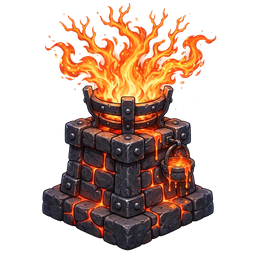
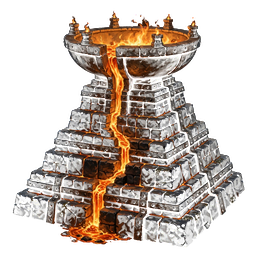
Fire: per-state muzzles + structure-first art for 7 effect-dominated states

diff --git a/tests/browser/fire-muzzles.spec.js b/tests/browser/fire-muzzles.spec.js
@@ -1,0 +1,322 @@
+import { test, expect } from "@playwright/test";
+import { mkdirSync } from "node:fs";
+import {
+  declaredMuzzle,
+  towerDisplaySize,
+  towerMuzzle,
+} from "../../src/data/towers.js";
+
+// Fire per-state muzzles (structure-first redo, 2026-10-21): fire
+// was the type whose single type muzzle [0, -56] sat inside the
+// tower body — worst on the Magma Forge trio, which fires from its
+// crucible bowl, not its chimney (0-0-3 [0, -45], 0-1-3 [-1, -51],
+// 1-0-3 [0, -47]), and ~15px under the new spire crowns. Every
+// state now declares its own muzzle in STATE_MUZZLES, grounded on
+// its own artwork; seven states also carry new structure-first art
+// (3-0-0 / 3-0-1 / 3-1-0 spires, 0-3-0 / 0-3-1 crown bowls, 1-3-0,
+// 1-2-0). Fire draws no pointing weapon, so nothing mirrors — the
+// renderer's visual muzzle IS towerMuzzle. This spec pins the
+// table to the Phase 1 measurements, then proves in-game that
+// shots (and the Inferno Spire's beam jet) leave from the declared
+// per-state muzzle. QA stills land in ~/workspace/ts-proof-art/qa/.
+const QA = `${process.env.HOME}/workspace/ts-proof-art/qa`;
+mkdirSync(QA, { recursive: true });
+
+// Phase 1 grounded values (measurements.json), [dx, dy] at the
+// 80px reference render. The ascended entry is grounded separately
+// on the CURRENT ascended art (sun-heart in its arch) — the staged
+// replacement art is held out, so its value is pinned too.
+const EXPECTED = {
+  "0-0-0": [0, -59], "0-0-1": [0, -55], "0-0-2": [0, -62],
+  "0-0-3": [0, -45], "0-1-0": [0, -58], "0-1-1": [-1, -56],
+  "0-1-2": [0, -58], "0-1-3": [-1, -51], "0-2-0": [0, -59],
+  "0-2-1": [0, -56], "0-3-0": [0, -67], "0-3-1": [1, -68],
+  "1-0-0": [0, -54], "1-0-1": [0, -58], "1-0-2": [0, -57],
+  "1-0-3": [0, -47], "1-1-0": [0, -63], "1-2-0": [0, -70],
+  "1-3-0": [0, -73], "2-0-0": [-1, -56], "2-0-1": [0, -50],
+  "2-1-0": [0, -54], "3-0-0": [0, -74], "3-0-1": [0, -71],
+  "3-1-0": [0, -72], ascended: [0, -28],
+};
+// States sampled in-game: all three paths tier by tier, the forge
+// trio, and every redo state. Upgrade sequences build the primary
+// path first, then the secondary (the cannon spec's proven order).
+const SAMPLES = {
+  "0-0-0": [],
+  "1-0-0": [0],
+  "2-0-0": [0, 0],
+  "3-0-0": [0, 0, 0], // beam — proved via its jet effect
+  "3-0-1": [0, 0, 0, 2],
+  "3-1-0": [0, 0, 0, 1],
+  "0-1-0": [1],
+  "0-2-0": [1, 1],
+  "0-3-0": [1, 1, 1],
+  "0-3-1": [1, 1, 1, 2],
+  "1-2-0": [1, 1, 0],
+  "1-3-0": [1, 1, 1, 0],
+  "0-0-1": [2],
+  "0-0-2": [2, 2],
+  "0-0-3": [2, 2, 2],
+  "0-1-3": [2, 2, 2, 1],
+  "1-0-3": [2, 2, 2, 0],
+};
+// Corrections large enough that the shot must land measurably off
+// the OLD type muzzle [0, -56]: the forge trio + all redo states.
+const BIG = new Set([
+  "0-0-3", "0-1-3", "1-0-3",
+  "3-0-0", "3-0-1", "3-1-0", "0-3-0", "0-3-1", "1-3-0", "1-2-0",
+]);
+// The whole Inferno Tier-3 family fires the focus BEAM (tier stat
+// beam: true rides along with both secondaries), so 3-0-1 and
+// 3-1-0 make no projectile either — they are proved through the
+// scene's jet effect, whose start point is towerVisualMuzzle.
+const BEAM = new Set(["3-0-0", "3-0-1", "3-1-0"]);
+
+async function ready(page) {
+  await page.goto("./");
+  await page.waitForFunction(() => window.__tinySiege?.ui.scene?.dynamic);
+}
+async function createProfile(page) {
+  await page.locator("#new-profile").click();
+  await page.locator("#nickname").fill("Forge Knight");
+  await page.locator("#profile-form button").click();
+}
+async function enterFreePlay(page) {
+  await page.locator("#play").click();
+  await page.locator('[data-freeplay="classic"]').click();
+}
+// Shared setup: attack wrapper capturing each projectile's draw
+// start synchronously at fire time (draw races to the logical
+// position within frames), one immortal enemy parked off-trail,
+// and an in-page builder that sells the previous proof tower,
+// places a fresh Fire tower and upgrades it to the wanted state.
+async function setup(page) {
+  await page.evaluate(() => {
+    const { model: g } = window.__tinySiege;
+    g.reset();
+    g.gold = 1000000;
+    window.__proof = { shots: [], towerId: null };
+    const orig = g.attack.bind(g);
+    g.attack = (t, targets, stats) => {
+      const before = g.projectiles.length;
+      orig(t, targets, stats);
+      for (const p of g.projectiles.slice(before))
+        window.__proof.shots.push({
+          towerId: t.id,
+          x: p.draw.x,
+          y: p.draw.y,
+        });
+    };
+    const e = g.spawn("basic");
+    e.speed = 0;
+    e.health = 1e12;
+    e.armor = 0;
+    window.__proof.enemyId = e.id;
+    g.startWave();
+    g.queue = [];
+    window.__proof.build = (paths, upgrades, x, y, minD = 55) => {
+      if (window.__proof.towerId != null) g.sell(window.__proof.towerId);
+      const t = g.place("fire", x, y);
+      if (!t) throw new Error(`fire placement rejected at ${x},${y}`);
+      for (const p of upgrades) g.upgrade(t.id, p);
+      if (t.paths.join("-") !== paths)
+        throw new Error(`fire ended at ${t.paths}, wanted ${paths}`);
+      window.__proof.towerId = t.id;
+      const trail = g.trails[0];
+      const range = g.effectiveStats(t).range;
+      let at = null,
+        park = null;
+      for (let p = 40; p < 2400 && (at === null || park === null); p += 5) {
+        const pos = trail.onPath(p);
+        if (!pos || !Number.isFinite(pos.x)) continue;
+        const d = Math.hypot(pos.x - t.x, pos.y - t.y);
+        if (at === null && d >= minD && d <= range - 10) at = p;
+        if (park === null && d > range + 40) park = p;
+      }
+      if (at === null || park === null)
+        throw new Error(`trail scan missed for ${paths}: at=${at} park=${park}`);
+      const enemy = g.enemies.find((e) => e.id === window.__proof.enemyId);
+      enemy.progress = park;
+      Object.assign(enemy, trail.onPath(park));
+      return { id: t.id, x: t.x, y: t.y, at, park };
+    };
+    window.__proof.moveEnemy = (p) => {
+      const enemy = g.enemies.find((e) => e.id === window.__proof.enemyId);
+      enemy.progress = p;
+      Object.assign(enemy, g.trails[0].onPath(p));
+    };
+  });
+}
+
+test("fire table matches the grounded measurements", () => {
+  for (const [state, want] of Object.entries(EXPECTED)) {
+    const paths =
+      state === "ascended" ? [3, 3, 3] : state.split("-").map(Number);
+    expect(
+      declaredMuzzle({ type: "fire", paths }),
+      `fire ${state}`,
+    ).toEqual(want);
+  }
+});
+
+test("fire shots leave from each state's own muzzle", async ({ page }) => {
+  test.setTimeout(300000);
+  await page.setViewportSize({ width: 844, height: 390 });
+  const errors = [];
+  page.on("pageerror", (e) => errors.push(e.message));
+  await ready(page);
+  await createProfile(page);
+  await enterFreePlay(page);
+  await setup(page);
+
+  for (const [state, upgrades] of Object.entries(SAMPLES)) {
+    const paths = state.split("-").map(Number);
+    const built = await page.evaluate(
+      ({ paths, upgrades }) =>
+        window.__proof.build(paths, upgrades, 342, 263),
+      { paths: state, upgrades },
+    );
+    const want = towerMuzzle({ type: "fire", x: built.x, y: built.y, paths });
+    if (BEAM.has(state)) {
+      // Beam tower: no projectile — the scene's jet effect starts
+      // at towerVisualMuzzle(tower). Catch one and compare origins.
+      // Only a jet effect created after this move counts: effects
+      // live 0.28s, and the previous beam state's dying jet sits at
+      // ITS muzzle (3-0-0's is exactly 4.86px above 3-0-1's at
+      // their shared 1.62 scale — close enough to fool a naive
+      // find). Snapshot the live ones by identity and ignore them.
+      await page.evaluate((p) => {
+        window.__proof.jet = null;
+        window.__proof.oldJets = new Set(
+          window.__tinySiege.ui.scene.effects.filter((e) => e.type === "jet"),
+        );
+        window.__proof.moveEnemy(p);
+      }, built.at);
+      await page.waitForFunction(
+        () => {
+          const jet = window.__tinySiege.ui.scene.effects.find(
+            (e) => e.type === "jet" && !window.__proof.oldJets.has(e),
+          );
+          if (!jet) return false;
+          window.__proof.jet = { x: jet.points[0].x, y: jet.points[0].y };
+          return true;
+        },
+        null,
+        { timeout: 20000 },
+      );
+      const jet = await page.evaluate(() => window.__proof.jet);
+      expect(Math.abs(jet.x - want.x), `${state} jet x`).toBeLessThan(1.5);
+      expect(Math.abs(jet.y - want.y), `${state} jet y`).toBeLessThan(1.5);
+    } else {
+      await page.evaluate(
+        ({ id, at }) => {
+          window.__proof.shots = window.__proof.shots.filter(
+            (s) => s.towerId !== id,
+          );
+          window.__proof.moveEnemy(at);
+        },
+        { id: built.id, at: built.at },
+      );
+      await page.waitForFunction(
+        (id) => window.__proof.shots.some((s) => s.towerId === id),
+        built.id,
+        { timeout: 20000 },
+      );
+      const shot = await page.evaluate(
+        (id) => window.__proof.shots.find((s) => s.towerId === id),
+        built.id,
+      );
+      expect(Math.abs(shot.x - want.x), `${state} draw x`).toBeLessThan(1.5);
+      expect(Math.abs(shot.y - want.y), `${state} draw y`).toBeLessThan(1.5);
+    }
+    if (BIG.has(state)) {
+      // The correction must be real: the origin sits measurably
+      // off the old type muzzle [0, -56] at this state's scale.
+      const scale = towerDisplaySize({ type: "fire", paths }) / 80;
+      const old = { x: built.x, y: built.y - 56 * scale };
+      const origin = BEAM.has(state)
+        ? await page.evaluate(() => window.__proof.jet)
+        : await page.evaluate(
+            (id) => window.__proof.shots.find((s) => s.towerId === id),
+            built.id,
+          );
+      expect(
+        Math.hypot(origin.x - old.x, origin.y - old.y),
+        `${state} off old muzzle`,
+      ).toBeGreaterThan(5);
+    }
+    await page.evaluate((p) => window.__proof.moveEnemy(p), built.park);
+  }
+  expect(errors).toEqual([]);
+});
+
+test("fire redo stills — spires, crown bowl and forge firing", async ({
+  page,
+}) => {
+  test.setTimeout(300000);
+  await page.setViewportSize({ width: 844, height: 390 });
+  const errors = [];
+  page.on("pageerror", (e) => errors.push(e.message));
+  await ready(page);
+  await createProfile(page);
+  await enterFreePlay(page);
+  await setup(page);
+
+  const scenes = [
+    { state: "3-0-0", upgrades: [0, 0, 0], at: [342, 263], beam: true },
+    // NOT (145, 105): that corner's in-range trail points all sit
+    // where the (large) enemy sprite + treeline hide the wide
+    // crown-bowl tower. The open bottom-right grass reads honestly.
+    { state: "0-3-0", upgrades: [1, 1, 1], at: [743, 396], beam: false },
+    { state: "0-0-3", upgrades: [2, 2, 2], at: [743, 396], beam: false },
+    { state: "1-3-0", upgrades: [1, 1, 1, 0], at: [342, 263], beam: false },
+  ];
+  for (const scene of scenes) {
+    const built = await page.evaluate(
+      ({ paths, upgrades, x, y, minD }) =>
+        window.__proof.build(paths, upgrades, x, y, minD),
+      {
+        paths: scene.state,
+        upgrades: scene.upgrades,
+        x: scene.at[0],
+        y: scene.at[1],
+        minD: scene.minD ?? 55,
+      },
+    );
+    await page.evaluate((p) => window.__proof.moveEnemy(p), built.at);
+    // Screenshot on a frame where the tower is visibly firing.
+    // Beam: poll until a jet effect is on screen (it recurs every
+    // cooldown). Projectile towers: wait for the attack wrapper to
+    // record a FRESH shot, then shoot immediately — the projectile
+    // is within a frame or two of the muzzle it left from. (An
+    // earlier proximity poll — draw within 45px of the muzzle —
+    // raced the draw's convergence and missed whole volleys.)
+    if (scene.beam) {
+      let captured = false;
+      for (let i = 0; i < 40 && !captured; i++) {
+        captured = await page.evaluate(() =>
+          window.__tinySiege.ui.scene.effects.some((e) => e.type === "jet"),
+        );
+        if (captured) {
+          await page.screenshot({ path: `${QA}/fire-${scene.state}.png` });
+        } else {
+          await page.waitForTimeout(120);
+        }
+      }
+      expect(captured, `${scene.state} firing still`).toBe(true);
+    } else {
+      await page.evaluate((id) => {
+        window.__proof.shots = window.__proof.shots.filter(
+          (s) => s.towerId !== id,
+        );
+      }, built.id);
+      await page.waitForFunction(
+        (id) => window.__proof.shots.some((s) => s.towerId === id),
+        built.id,
+        { timeout: 20000 },
+      );
+      await page.screenshot({ path: `${QA}/fire-${scene.state}.png` });
+    }
+    await page.evaluate((p) => window.__proof.moveEnemy(p), built.park);
+  }
+  expect(errors).toEqual([]);
+});

diff --git a/src/data/towers.js b/src/data/towers.js
@@ -863,6 +863,48 @@ export const STATE_MUZZLES = {
     "3-1-0": [0, -72],
     ascended: [0, -45],
   },
+  // Fire (structure-first redo, 2026-10-21): every state measured on
+  // its own artwork. The old type muzzle [0, -56] sat inside the
+  // body for the Magma Forge line — the forge trio fires from its
+  // crucible bowl, NOT the chimney behind it (0-0-3 [0, -45],
+  // 0-1-3 [-1, -51], 1-0-3 [0, -47]) — and ~15px under the spire
+  // crowns (3-0-0 [0, -74]). Seven states also carry new
+  // structure-first art from this pass (3-0-0 / 3-0-1 / 3-1-0
+  // spires, 0-3-0 / 0-3-1 crown bowls, 1-3-0, 1-2-0) and their
+  // muzzles are grounded on that new art: spire crowns point at the
+  // flame-jet nozzle tip, crown-bowl states at the bowl's center.
+  // The ascended entry is grounded on the CURRENT ascended art —
+  // the glowing sun-heart in its arch, frame (0.502, 0.645) →
+  // [0, -28]. (A staged replacement ascended artwork exists but is
+  // held out pending the owner's call; its muzzle differs.)
+  fire: {
+    "0-0-0": [0, -59],
+    "0-0-1": [0, -55],
+    "0-0-2": [0, -62],
+    "0-0-3": [0, -45],
+    "0-1-0": [0, -58],
+    "0-1-1": [-1, -56],
+    "0-1-2": [0, -58],
+    "0-1-3": [-1, -51],
+    "0-2-0": [0, -59],
+    "0-2-1": [0, -56],
+    "0-3-0": [0, -67],
+    "0-3-1": [1, -68],
+    "1-0-0": [0, -54],
+    "1-0-1": [0, -58],
+    "1-0-2": [0, -57],
+    "1-0-3": [0, -47],
+    "1-1-0": [0, -63],
+    "1-2-0": [0, -70],
+    "1-3-0": [0, -73],
+    "2-0-0": [-1, -56],
+    "2-0-1": [0, -50],
+    "2-1-0": [0, -54],
+    "3-0-0": [0, -74],
+    "3-0-1": [0, -71],
+    "3-1-0": [0, -72],
+    ascended: [0, -28],
+  },
 };
 // The muzzle a tower actually declares: per-state override when one
 // exists, else the type's muzzle. Single source of truth for the sim,
